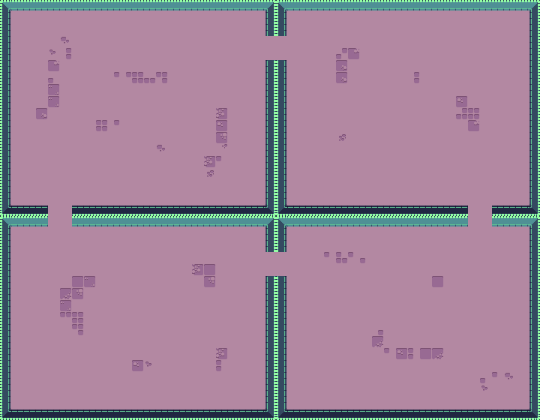
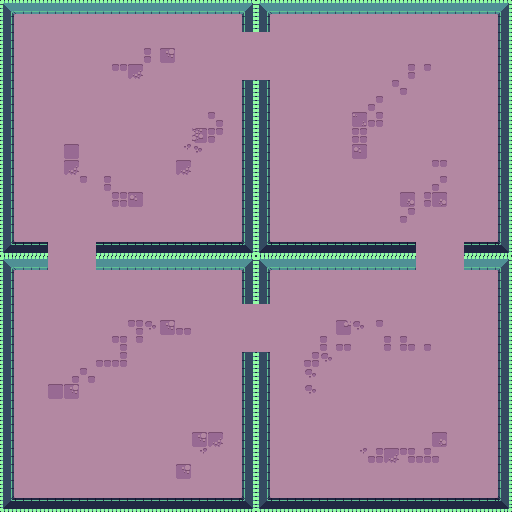
dimension shader & collision & enemy

diff --git a/scripts/game.js b/scripts/game.js
@@ -1,20 +1,23 @@
 var config = {
-    type: Phaser.AUTO,
-    width: 720,
-    heigth: 560,
-    scene: {
-        preload: preload,
-        create: create,
-        update: update
-    },
-    physics: {
-        default: 'arcade',
-        arcade: {
-            gravity: {
-                y: 0
-            }
-        }
-    },
+  type: Phaser.AUTO,
+  width: 512,
+  height: 512,
+  scene: {
+    preload: preload,
+    create: create,
+    update: update,
+    extend: {
+      launchEnemy: launchEnemy
+    }
+  },
+  physics: {
+    default: 'arcade',
+    arcade: {
+      gravity: {
+        y: 0
+      }
+    }
+  },
 };
 
 var game = new Phaser.Game(config);
@@ -22,46 +25,108 @@ var game = new Phaser.Game(config);
 var player;
 var cursors;
 
-var layers = [];
+var arena;
+var helpText;
 
 function preload() {
-    this.load.image('player', './assets/link.png');
+  this.load.image('tex', 'assets/map.png');
+  this.load.spritesheet(
+    "player",
+    "assets/idle.png", {
+      frameWidth: 16,
+      frameHeight: 16
+    });
 
-    this.load.image('map', './assets/map.png');
-    this.load.image('tiles', './assets/dungeon-tileset.png');
-    this.load.tilemapCSV('map2', './assets/map.csv');
+  this.load.image('tiles', './assets/dungeon-tileset.png');
+  this.load.tilemapCSV('map', './assets/map.csv');
 
-    this.load.glsl('dimension', './shaders/basic.frag');
+  this.load.glsl('dimension', 'shaders/basic.frag');
+
 }
 
 function create() {
-    /*var map = this.make.tilemap({
-        key: 'map',
-        tileWidth: 16,
-        tileHeight: 16
-    });
-    var tileset = map.addTilesetImage('tiles');
-    layers.push(map.createStaticLayer(0, tileset, (800 - 720) / 2, (600 - 560)));
 
-    map.setCollision(1, 3, 4, 19, 21, 22, 23, 39);*/
+  var map = this.make.tilemap({
+    key: 'map',
+    tileWidth: 16,
+    tileHeight: 16
+  });
+  var tileset = map.addTilesetImage('tiles');
+  var layer = map.createStaticLayer(0, tileset, 0, 0);
 
-    var shader = this.add.shader('dimension', 360, 280, 720, 560, ['map']);
+  map.setCollision([1, 3, 4, 19, 21, 22, 23, 39]);
 
-    player = this.physics.add.sprite(40, 300, 'player');
-    cursors = this.input.keyboard.createCursorKeys();
+  this.anims.create({
+    key: 'idle',
+    frames: this.anims.generateFrameNumbers('player', {
+      start: 0,
+      end: 1
+    }),
+    frameRate: 5,
+    repeat: -1
+  });
+  var shader = this.add.shader('dimension', config.width / 2, config.height / 2, config.width, config.height, ['tex']);
+
+  player = this.physics.add.sprite(40, 350, 'player').setDepth(2);
+  player.setDamping(true)
+
+  arena = new Phaser.Geom.Rectangle(0, 0, config.width, config.height);
+
+  enemies = this.physics.add.group({
+    classType: Enemy,
+    maxSize: 60,
+    runChildUpdate: true
+  });
+
+  this.physics.add.collider(player, layer);
+
+  cursors = this.input.keyboard.createCursorKeys();
+
+  helpText = this.add.text(16, 16, getHelpMessage(), {
+    fontSize: '18px',
+    fill: '#ffffff'
+  });
+  helpText.setScrollFactor(0);
+
+  for (var i = 0; i < 6; i++) {
+    this.launchEnemy();
+  }
+}
+
+function launchEnemy() {
+  var b = enemies.get();
+
+  if (b) {
+    b.launch();
+  }
 }
 
 function update() {
-    player.body.setVelocity(0);
-    if (cursors.left.isDown) {
-        player.body.setVelocityX(-100);
-    } else if (cursors.right.isDown) {
-        player.body.setVelocityX(100);
-    }
+  if (spawnEnemy()) {
+    //this.launchEnemy();
+  }
 
-    if (cursors.up.isDown) {
-        player.body.setVelocityY(-100);
-    } else if (cursors.down.isDown) {
-        player.body.setVelocityY(100);
-    }
+  player.body.setVelocity(0);
+  if (cursors.left.isDown) {
+    player.body.setVelocityX(-100);
+  } else if (cursors.right.isDown) {
+    player.body.setVelocityX(100);
+  }
+
+  if (cursors.up.isDown) {
+    player.body.setVelocityY(-100);
+  } else if (cursors.down.isDown) {
+    player.body.setVelocityY(100);
+  }
+
+  if (cursors.left.isDown || cursors.right.isDown ||
+    cursors.up.isDown || cursors.down.isDown) {
+    player.anims.stop();
+  } else {
+    player.anims.play('idle', true);
+  }
+}
+
+function getHelpMessage() {
+  return 'Arrow keys to move.';
 }

diff --git a/scripts/objects/enemy.js b/scripts/objects/enemy.js
@@ -1,0 +1,48 @@
+var Enemy = new Phaser.Class({
+
+  Extends: Phaser.Physics.Arcade.Sprite,
+
+  initialize:
+
+    function Enemy(scene) {
+      Phaser.Physics.Arcade.Sprite.call(this, scene, 0, 0, 'player');
+
+      this.setDepth(1);
+
+      this.hit = true;
+      this.speed = 100;
+      this.target = new Phaser.Math.Vector2();
+    },
+
+  launch: function() {
+    this.play('idle');
+
+
+    var colors = [0xff0000, 0x00ff00, 0x0000ff, 0x00ffff];
+    this.setTintFill(colors[Math.floor(Math.random() * colors.length)]);
+
+    var p = new Phaser.Math.Vector2();
+    Phaser.Geom.Rectangle.Random(arena, p);
+
+    this.speed = Phaser.Math.Between(50, 75);
+
+    this.setActive(true);
+    this.setVisible(true);
+    this.setPosition(p.x, p.y);
+
+    this.body.reset(p.x, p.y);
+  },
+
+  update: function(time, delta) {
+    var angle = Phaser.Geom.Line.Angle(new Phaser.Geom.Line(this.x, this.y, player.x, player.y));
+    this.scene.physics.velocityFromRotation(angle, this.speed, this.body.velocity);
+  },
+
+  kill: function() {
+    this.setActive(false);
+    this.setVisible(false);
+    this.body.stop();
+    this.scene.launchEnemy();
+  }
+
+});

diff --git a/index.html b/index.html
@@ -4,6 +4,8 @@
     <meta charset="UTF-8" />
     <title></title>
     <script src="https://cdn.jsdelivr.net/npm/phaser@3.17.0/dist/phaser.min.js"></script>
+    <script type="text/javascript" src="./scripts/utils.js"></script>
+    <script type="text/javascript" src="./scripts/objects/enemy.js"></script>
     <script type="text/javascript" src="./scripts/game.js"></script>
   </head>
   <body>

diff --git a/scripts/utils.js b/scripts/utils.js
@@ -1,0 +1,3 @@
+function spawnEnemy() {
+  return (Math.random() > 0.99);
+}
